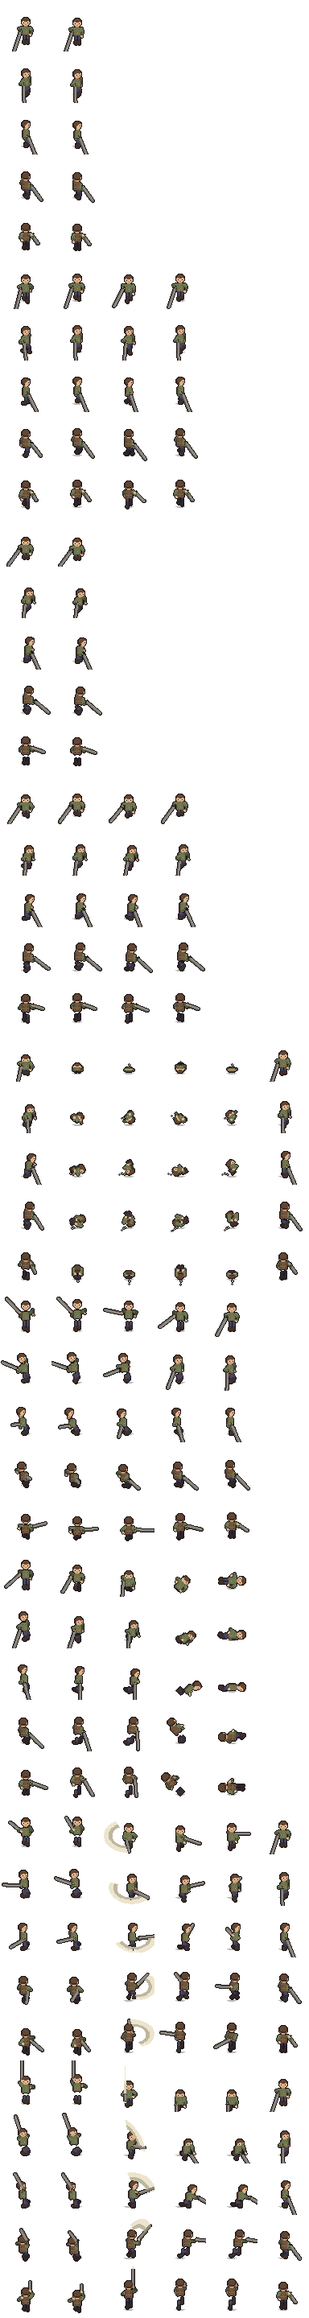
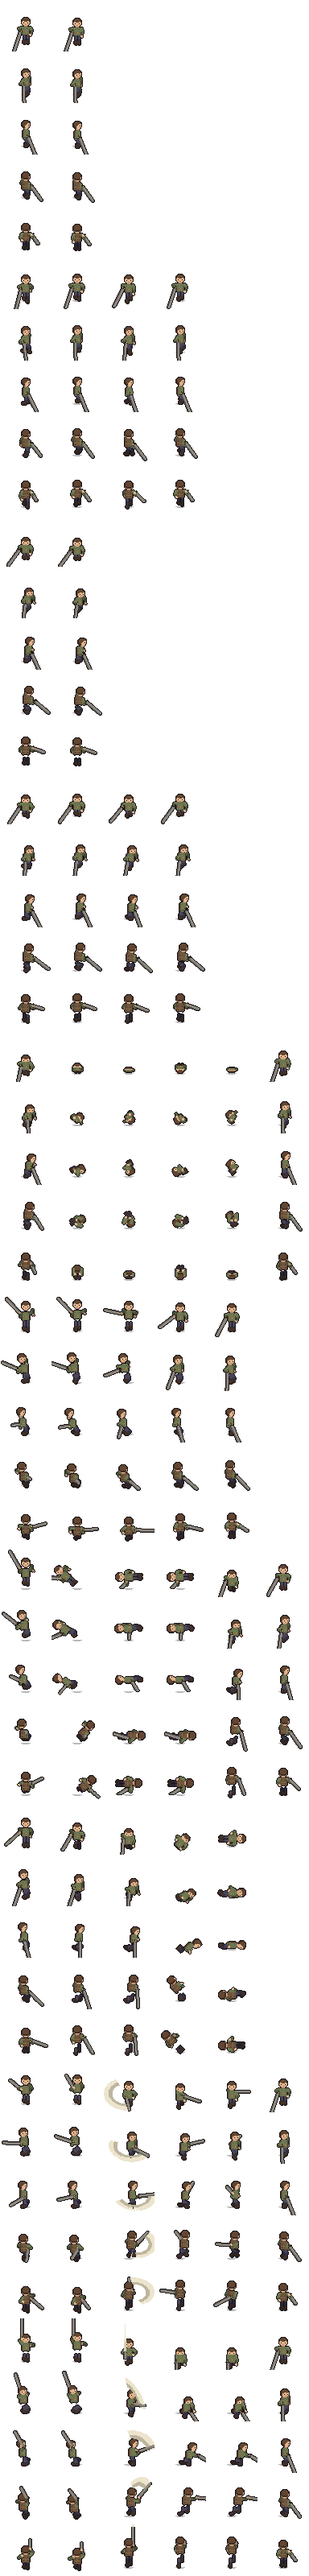
넘어짐(날아가 엎어졌다 기상) 그림 6장, 강한 공격 표시·경직 시간·완벽한 회피 수치
Claude-Session: https://claude.ai/code/session_01Vq3FZ4fVsT8bviQCrnkBFu

diff --git a/tools/art/pixel_hero.py b/tools/art/pixel_hero.py
@@ -384,10 +384,10 @@ COMMON = {
            P(crouch=3, lean=22, head=1, fl=(0, 0, 1), fr=(0, 0, 0), bob=-1, off=(0, 3, 1), w=W(55, -35, 4))],
  # 구르기: 숙임 → 공처럼 말아 넣고 실제로 한 바퀴 회전 → 펴며 일어남
  'roll': [P(crouch=3, lean=30, head=2, fl=(0, 2, 0), off=(0, 4, 2), w=W(30, -60, 2)),
-          P(tuck=True, rot=60, tumble=(False, 0.85), bounce=0, dust=1, weapon=False),
-          P(tuck=True, rot=150, tumble=(False, 0.45), bounce=1, dust=2, weapon=False),
-          P(tuck=True, rot=240, tumble=(True, 0.85), bounce=0, dust=3, weapon=False),
-          P(tuck=True, rot=320, tumble=(True, 0.45), bounce=1, dust=2, weapon=False),
+          P(tuck=True, rot=60, tumble=(False, 0.85), bounce=0, weapon=False),
+          P(tuck=True, rot=150, tumble=(False, 0.45), bounce=1, weapon=False),
+          P(tuck=True, rot=240, tumble=(True, 0.85), bounce=0, weapon=False),
+          P(tuck=True, rot=320, tumble=(True, 0.45), bounce=1, weapon=False),
           P(crouch=2, lean=15, head=1, fr=(0, 2, 0), off=(0, 2, 0), w=W(40, -55, 3))],
  # 피격: 머리·상체가 뒤로 확 젖혀지고 팔이 튕김 → 뒷걸음 → 버팀
  'hurt': [P(lean=-30, head=-2, lunge=-1, fr=(0, -2, 0), off=(-3, -2, 6), w=W(120, 30, 4, 3)),      # 충격: 고개·상체 확 젖힘, 팔 튕김
@@ -395,6 +395,13 @@ COMMON = {
           P(lean=-22, crouch=3, lunge=-4, fl=(0, -4, 0), fr=(0, -1, 0), off=(-2, -1, 2), w=W(100, 5, 4)), # 휘청 (무릎 꺾임)
           P(lean=-8, crouch=2, lunge=-3, fl=(0, -3, 0), off=(-1, 1, 0), w=W(70, -25, 3)),           # 버팀
           P(lean=-2, crouch=1, lunge=-2, w=W(50, -45, 3))],                                          # 자세 회복
+ # 강한 공격에 날아감: 튕겨 오름 → 공중에서 뒤로 넘어감 → 등으로 떨어짐 → 누움 → 무릎 짚고 → 일어남
+ 'knockdown': [P(lean=-40, head=-2, bob=-2, fl=(0, -2, 2), fr=(0, -1, 3), off=(-3, -2, 7), w=W(130, 40, 4, 4)),
+               P(rot=-50, lean=-30, bob=-5, fl=(0, -2, 2), fr=(0, 0, 3), off=(-3, -2, 6), w=W(130, 30, 3, 2)),
+               P(rot=-90, w=W(150, -10, 3)),
+               P(rot=-90, head=1, w=W(150, -10, 3)),
+               P(crouch=7, lean=25, head=2, fl=(0, -4, 0), fr=(0, 2, 0), off=(0, 3, -3), w=W(80, -70, 3)),
+               P(crouch=3, lean=10, w=W(60, -50, 3))],
  # 쓰러짐: 휘청 → 무릎 꿇음 → 칼 떨굼 → 앞으로 쓰러짐 → 누움
  'death': [P(lean=-15, head=-1, lunge=-1, w=W(70, -30, 3)),
            P(crouch=6, lean=10, head=1, fl=(0, -4, 0), fr=(0, 2, 0), w=W(90, -60, 3)),
@@ -695,7 +702,7 @@ def draw(outfit_key, weapon_key, view, pose):
                     if 0 <= X < F and 0 <= Y < F and img.getpixel((X, Y))[3] == 0: img.putpixel((X, Y), c)
     elif pose['rot']:
         img = rotsprite(img, pose['rot'] if view not in ('up', 'upside') else -pose['rot'], (CX, FOOT_Y - 2))
-        if pose['rot'] >= 90:
+        if abs(pose['rot']) >= 90:
             # 누운 몸은 바닥에 붙이기
             bb = img.getbbox()
             if bb:
